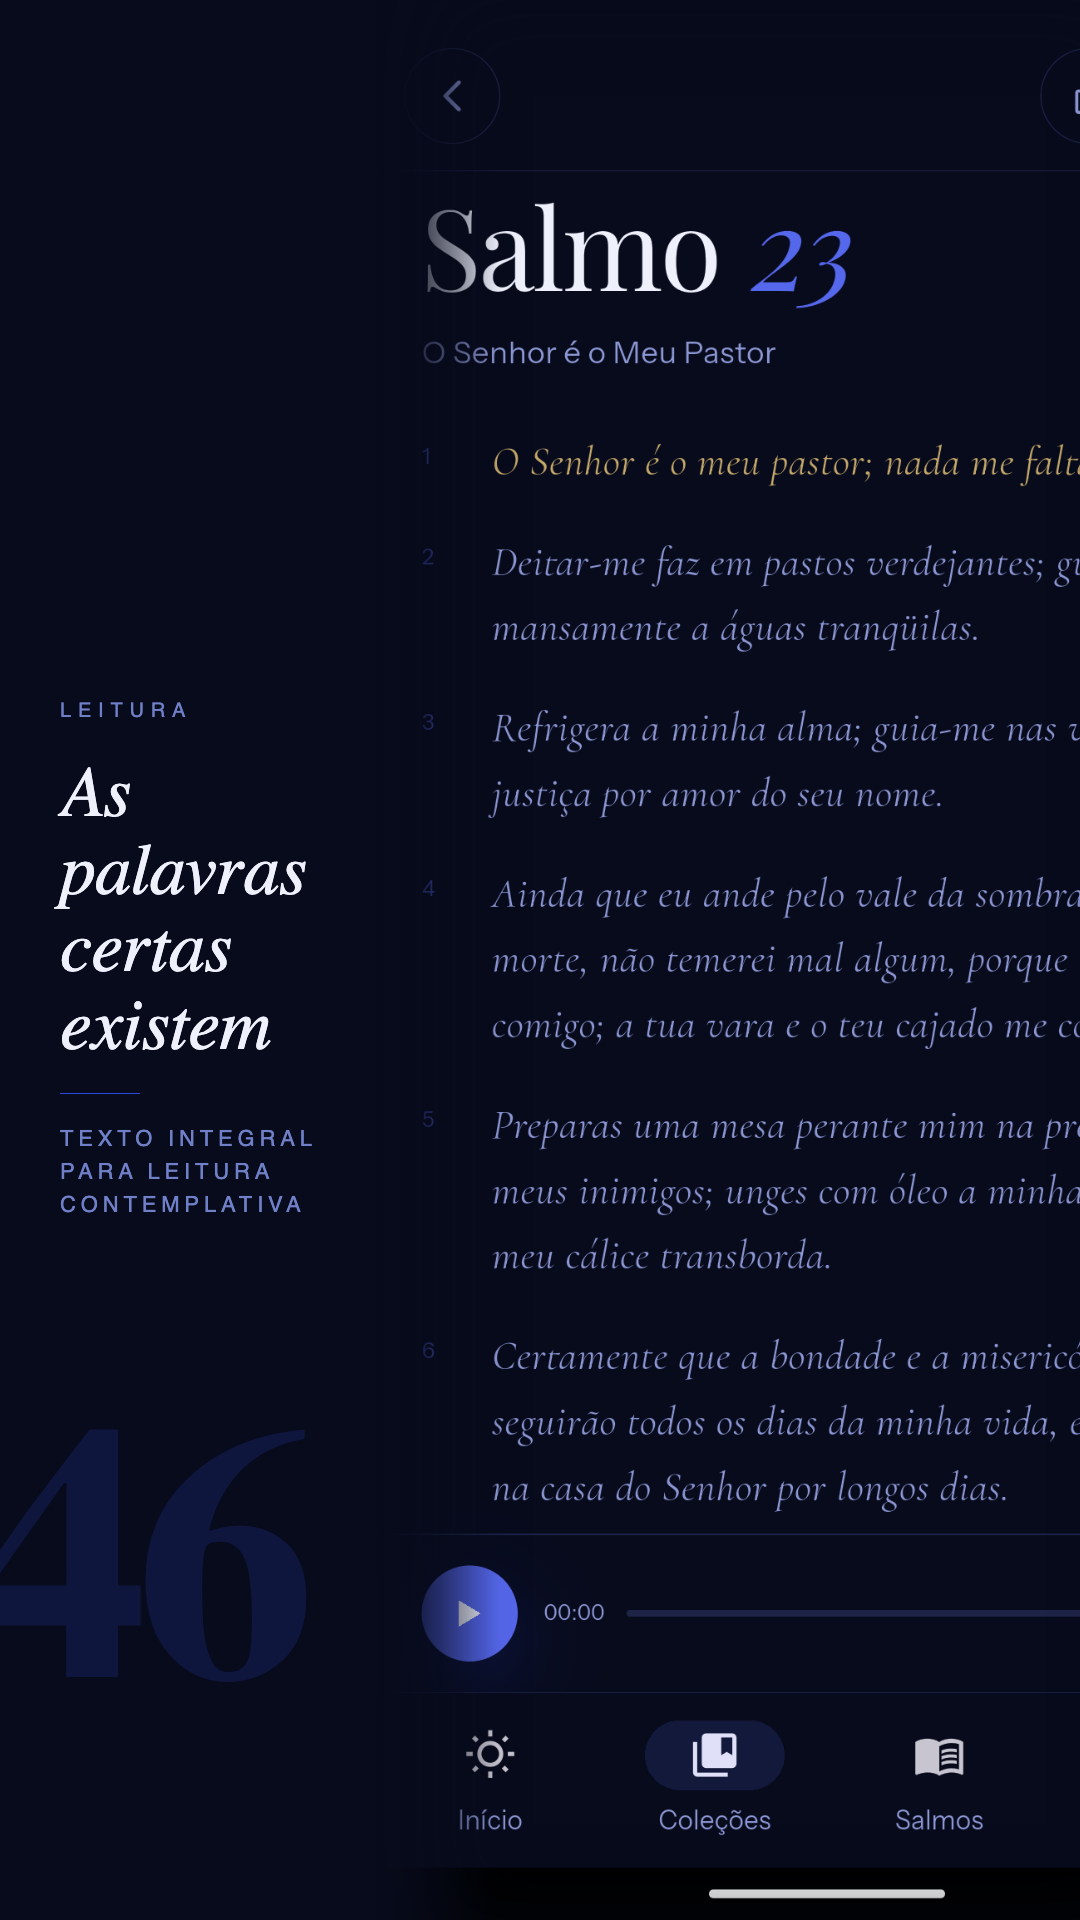
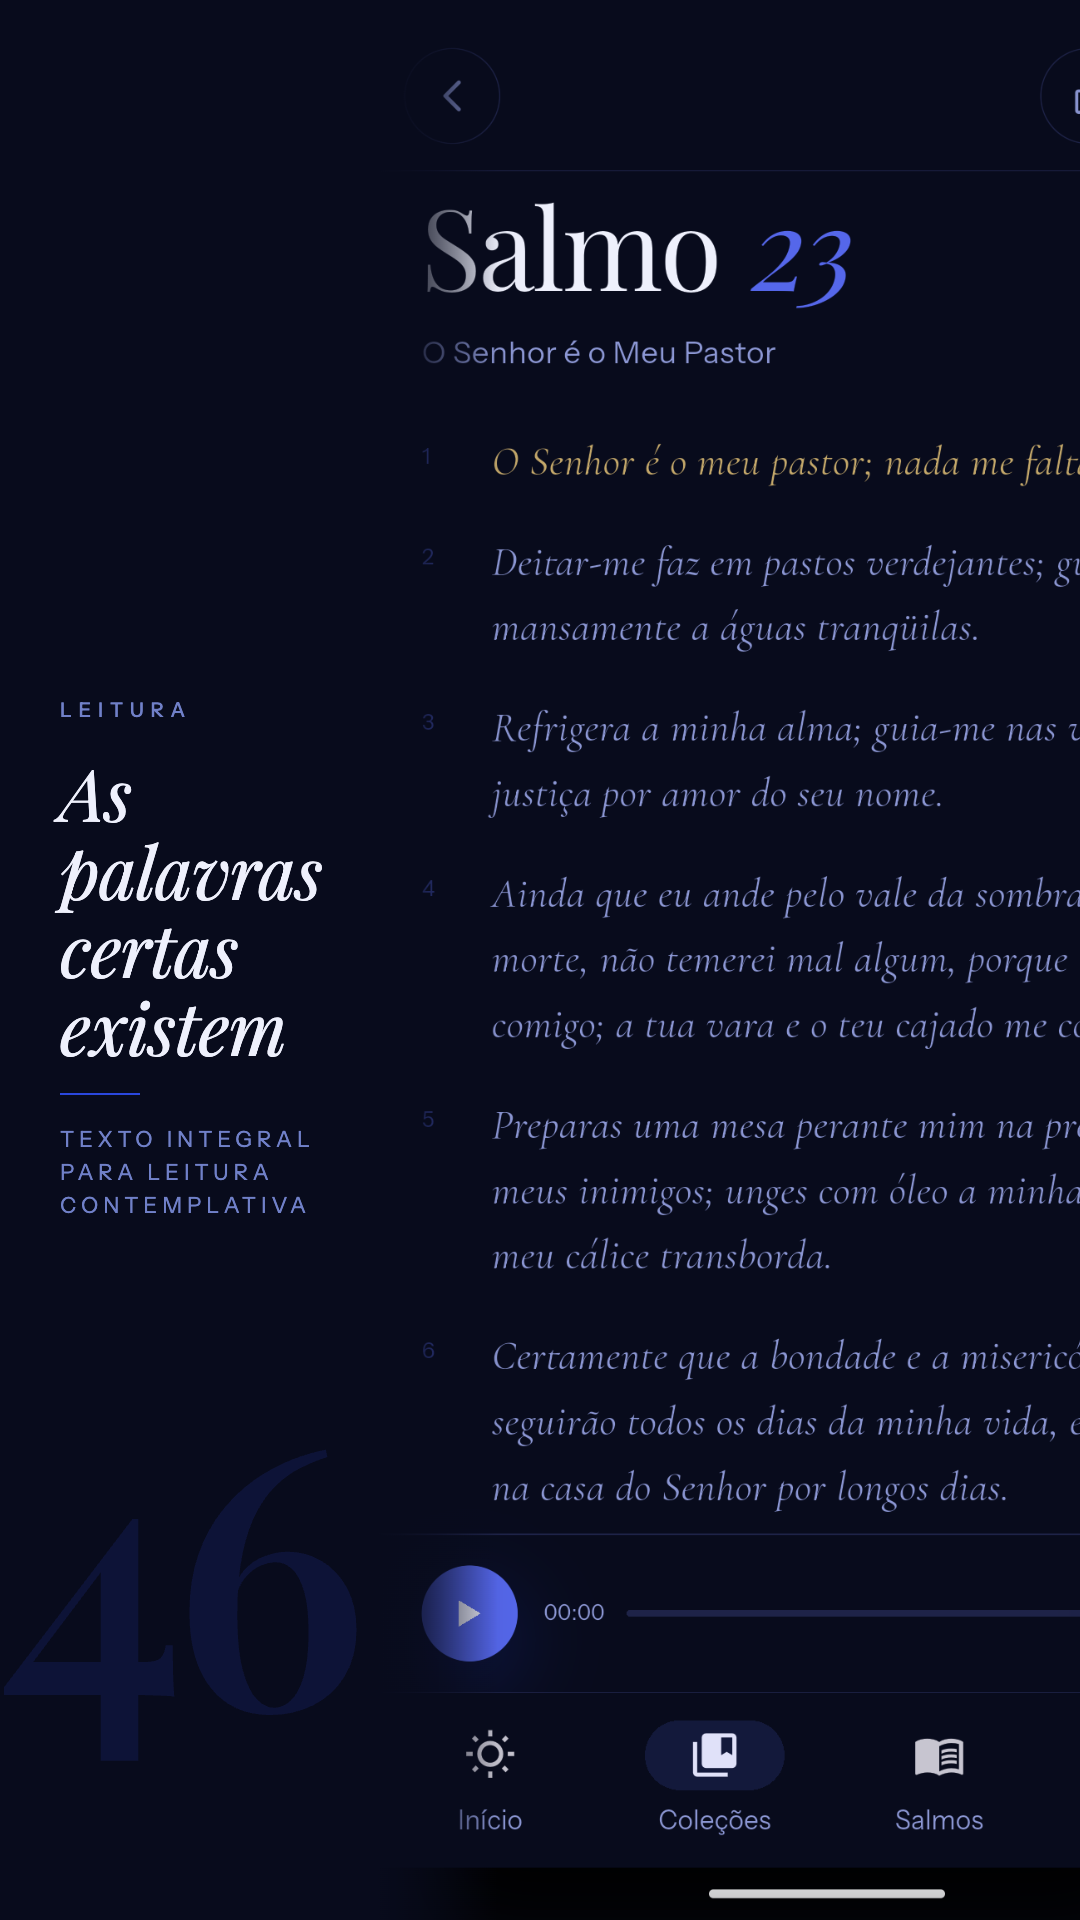
play-store: apply benchmarking improvements to all 6 screenshots
Visual fixes: S1 glow 0.12→0.26, S3 decorative "46" repositioned to left:0/opacity 0.14,
S6 chips enlarged (font 20px, padding 14px 36px). Design system: cobalt divider added to
S4 and S5. S5 footer replaced with gold Cormorant italic verse (Salmo 23:1). S2 shadow
added on app UI zone for separation.

Copy: S2 headline updated to pain-anchored "Quando a ansiedade chega, as palavras já estão
lá" / sub "Para a noite difícil. Para o silêncio da manhã."

Re-exported all 6 PNGs at 1080×1920.

diff --git a/play-store/screenshots/final/s5-colecao.html b/play-store/screenshots/final/s5-colecao.html
@@ -5,7 +5,7 @@
   <meta name="viewport" content="width=1080">
   <title>S5 — Coleção Detalhe</title>
   <link rel="preconnect" href="https://fonts.googleapis.com">
-  <link href="https://fonts.googleapis.com/css2?family=Playfair+Display:ital,wght@0,400;0,600;1,400;1,600&family=Instrument+Sans:wght@400;500&display=swap" rel="stylesheet">
+  <link href="https://fonts.googleapis.com/css2?family=Playfair+Display:ital,wght@0,400;0,600;1,400;1,600&family=Instrument+Sans:wght@400;500&family=Cormorant:ital,wght@1,400&display=swap" rel="stylesheet">
   <style>
     * { margin: 0; padding: 0; box-sizing: border-box; }
 
@@ -129,12 +129,11 @@
     }
 
     .footer-sub {
-      font-family: 'Instrument Sans', sans-serif;
-      font-size: 24px;
+      font-family: 'Cormorant', serif;
+      font-style: italic;
+      font-size: 28px;
       font-weight: 400;
-      letter-spacing: 0.18em;
-      text-transform: uppercase;
-      color: #7080C8;
+      color: #C4A86A;
       text-align: center;
       line-height: 1.5;
     }
@@ -161,7 +160,8 @@
 
   <!-- Footer -->
   <div class="footer-block">
-    <p class="footer-sub">Cada Salmo foi escolhido<br>para aquele sentimento</p>
+    <div style="width:48px;height:1.5px;background:#2A47DD;margin:0 auto 16px;opacity:0.7;"></div>
+    <p class="footer-sub">O Senhor é o meu pastor; nada me faltará.</p>
   </div>
 
 </body>

diff --git a/play-store/screenshots/final/s2-home.html b/play-store/screenshots/final/s2-home.html
@@ -32,6 +32,8 @@
       position: absolute;
       top: 60px; left: 0; right: 0; bottom: 0;
       z-index: 1;
+      box-shadow: 0 24px 80px rgba(0,0,0,0.55);
+      border-top: 0.5px solid rgba(85,103,234,0.10);
     }
 
     .app-full img {
@@ -93,8 +95,8 @@
 
   <!-- Minimal footer overlay -->
   <div class="footer-overlay">
-    <h1 class="headline">Um salmo<br>para cada dia</h1>
-    <p class="sub">Chegue, leia, volte amanhã</p>
+    <h1 class="headline">Quando a ansiedade chega,<br>as palavras já estão lá</h1>
+    <p class="sub">Para a noite difícil. Para o silêncio da manhã.</p>
   </div>
 
 </body>

diff --git a/play-store/screenshots/final/s6-favoritos.html b/play-store/screenshots/final/s6-favoritos.html
@@ -120,7 +120,7 @@
 
     .chip {
       font-family: 'Instrument Sans', sans-serif;
-      font-size: 18px;
+      font-size: 20px;
       font-weight: 500;
       letter-spacing: 0.18em;
       text-transform: uppercase;
@@ -128,7 +128,7 @@
       background: rgba(27, 51, 180, 0.40);
       border: 0.5px solid rgba(85,103,234,0.30);
       border-radius: 999px;
-      padding: 10px 28px;
+      padding: 14px 36px;
     }
   </style>
 </head>

diff --git a/play-store/screenshots/final/s3-leitura.html b/play-store/screenshots/final/s3-leitura.html
@@ -36,12 +36,12 @@
     .psalm-bg-number {
       position: absolute;
       bottom: 180px;
-      left: -30px;
+      left: 0;
       font-family: 'Playfair Display', serif;
       font-weight: 600;
       font-size: 360px;
       line-height: 1;
-      color: rgba(42, 71, 221, 0.18);
+      color: rgba(42, 71, 221, 0.14);
       letter-spacing: -0.04em;
       user-select: none;
       pointer-events: none;

diff --git a/play-store/screenshots/final/s1-colecoes.html b/play-store/screenshots/final/s1-colecoes.html
@@ -77,7 +77,7 @@
       width: 700px;
       height: 700px;
       border-radius: 50%;
-      background: radial-gradient(circle, rgba(85,103,234,0.12) 0%, transparent 65%);
+      background: radial-gradient(circle, rgba(85,103,234,0.26) 0%, transparent 65%);
       top: 300px;
       left: 50%;
       transform: translateX(-50%);

diff --git a/play-store/screenshots/final/s4-reflexao.html b/play-store/screenshots/final/s4-reflexao.html
@@ -141,6 +141,7 @@
   <!-- Footer wordmark -->
   <div class="footer">
     <div class="footer-line"></div>
+    <div style="width:48px;height:1.5px;background:#2A47DD;margin:0 auto 16px;opacity:0.7;"></div>
     <p class="wordmark">O meu Salmo</p>
   </div>
 
